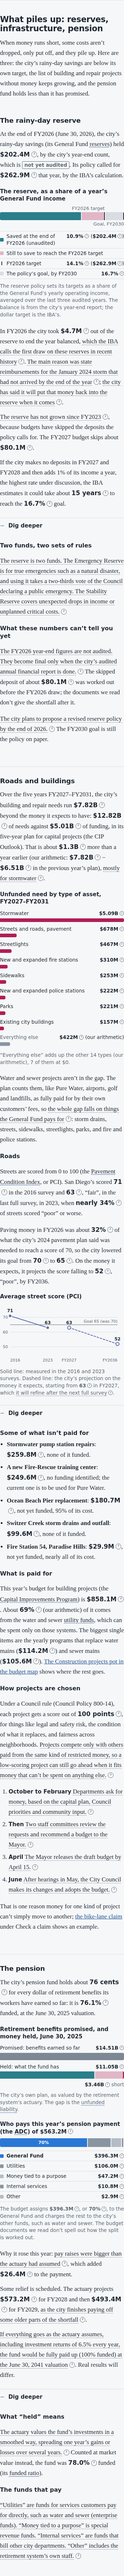
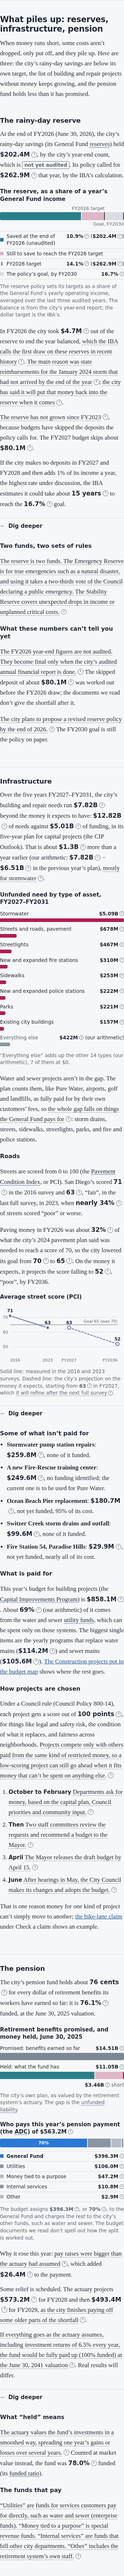
fix(site): source popovers append to the body, so they stay on the page and wrap
Inserted beside the button, a popover inherited white-space: nowrap from its row (the
infrastructure chart's 'our arithmetic' note ran off the page) and, inside a positioned
container (timeline, scrolly stage, history chart), its page coordinates were wrong: 25 of
380 landed away from their button or off the page at 1920px. Focus moves to the link on
open since the dialog is no longer next in tab order. Section 4b renamed Infrastructure.

diff --git a/site/sources.js b/site/sources.js
@@ -93,7 +93,9 @@ function openPopover(btn, el) {
   a.rel = 'noopener';
   a.textContent = 'Open the document';
   pop.append(a);
-  btn.after(pop);
+  // Appended to the body, not beside the button: its page coordinates are then right inside positioned containers
+  // (chart stages, the timeline), and it doesn't inherit a row's white-space: nowrap.
+  document.body.append(pop);
   const r = btn.getBoundingClientRect();
   const w = pop.offsetWidth;
   const left = Math.max(8, Math.min(r.left + window.scrollX, window.scrollX + document.documentElement.clientWidth - w - 8));
@@ -103,6 +105,7 @@ function openPopover(btn, el) {
   btn.setAttribute('aria-controls', 'popover');
   openPop = pop;
   openBtn = btn;
+  a.focus({ preventScroll: true }); // it is a dialog at the end of the body, so Tab wouldn't reach it from the button
 }
 
 let globalListeners = false;

diff --git a/site/index.html b/site/index.html
@@ -108,7 +108,7 @@
     </section>
 
     <section id="infrastructure" class="part" aria-labelledby="infrastructure-h">
-      <h3 id="infrastructure-h">Roads and buildings</h3>
+      <h3 id="infrastructure-h">Infrastructure</h3>
       <p class="lead">Over the five years FY2027–FY2031, the city’s building and repair needs run <span data-pile-fig="infrastructure.gap_m" data-fmt="bn">$7.82B</span> beyond the money it expects to have: <span data-pile-fig="infrastructure.needs_m" data-fmt="bn">$12.82B</span> of needs against <span data-pile-fig="infrastructure.funding_m" data-fmt="bn">$5.01B</span> of funding, in its five-year plan for capital projects (the CIP Outlook). <span id="s4-growth">That is about $1.3B more than a year earlier.</span></p>
       <figure class="chart" id="s4-assets"></figure>
       <figure class="chart" id="s4-roads"></figure>

diff --git a/site/piles.js b/site/piles.js
@@ -55,7 +55,7 @@ function reserve(el, copy, dig, d) {
     p(cite(c.iba_ye, 'The city plans to propose a revised reserve policy by the end of 2026.'), ' The FY2030 goal is still the policy on paper.'));
 }
 
-// ---- 4b. Roads and buildings ----
+// ---- 4b. Infrastructure ----
 function assets(el, d) {
   const inf = d.infrastructure;
   const rows = piles.prepareAssets(inf.by_asset);

diff --git a/site/styles.css b/site/styles.css
@@ -108,6 +108,7 @@ h2 { font-size: clamp(1.4rem, 5vw, 1.75rem); font-weight: 700; }
   border: 1px solid var(--rule); border-radius: 6px;
   box-shadow: 0 4px 16px rgb(0 0 0 / 0.18);
   padding: 10px 12px; font: 0.85rem/1.45 var(--font-ui);
+  white-space: normal; overflow-wrap: anywhere; text-align: left;
 }
 .popover p { margin: 0 0 4px; }
 .popover .pop-doc { font-weight: 650; }
